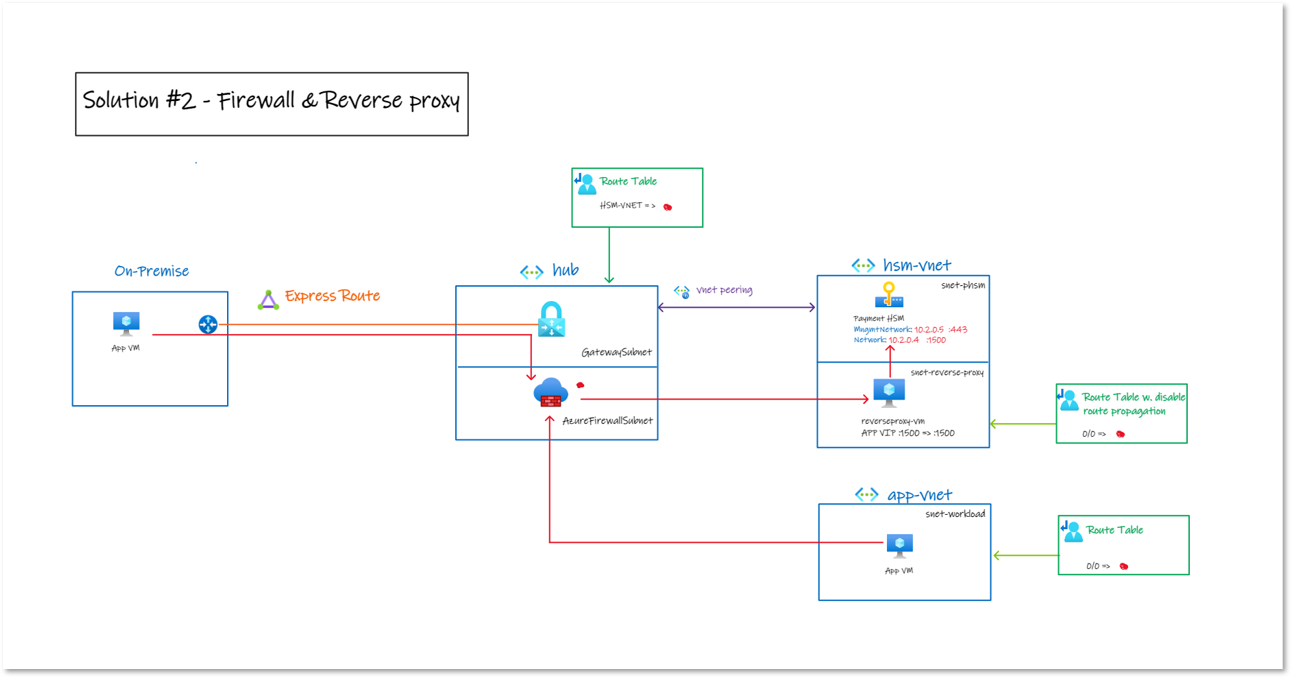
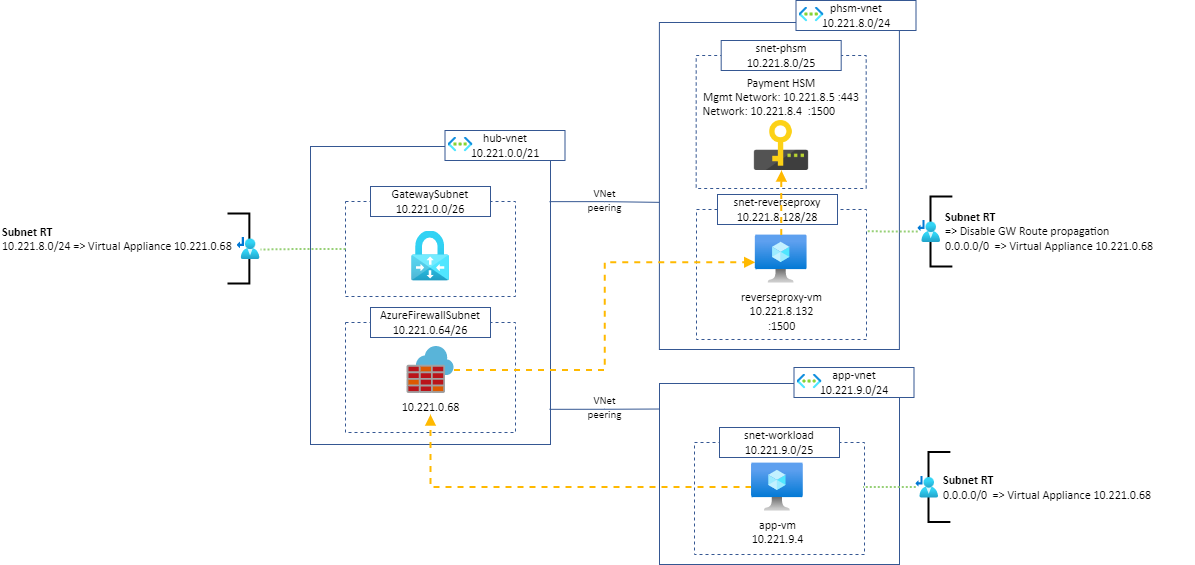
diagram updated

diff --git a/README.md b/README.md
@@ -80,11 +80,11 @@ Example of reverse proxy Server using NGINX (VM-based) configuration:
 stream { 
     server { 
         listen 1500; 
-        proxy_pass 10.2.0.4:1500; 
+        proxy_pass 10.221.8.4:1500; 
     } 
 
     upstream phsm { 
-        server 10.2.0.5:443; 
+        server 10.221.8.5:443; 
     } 
 
     server { 
